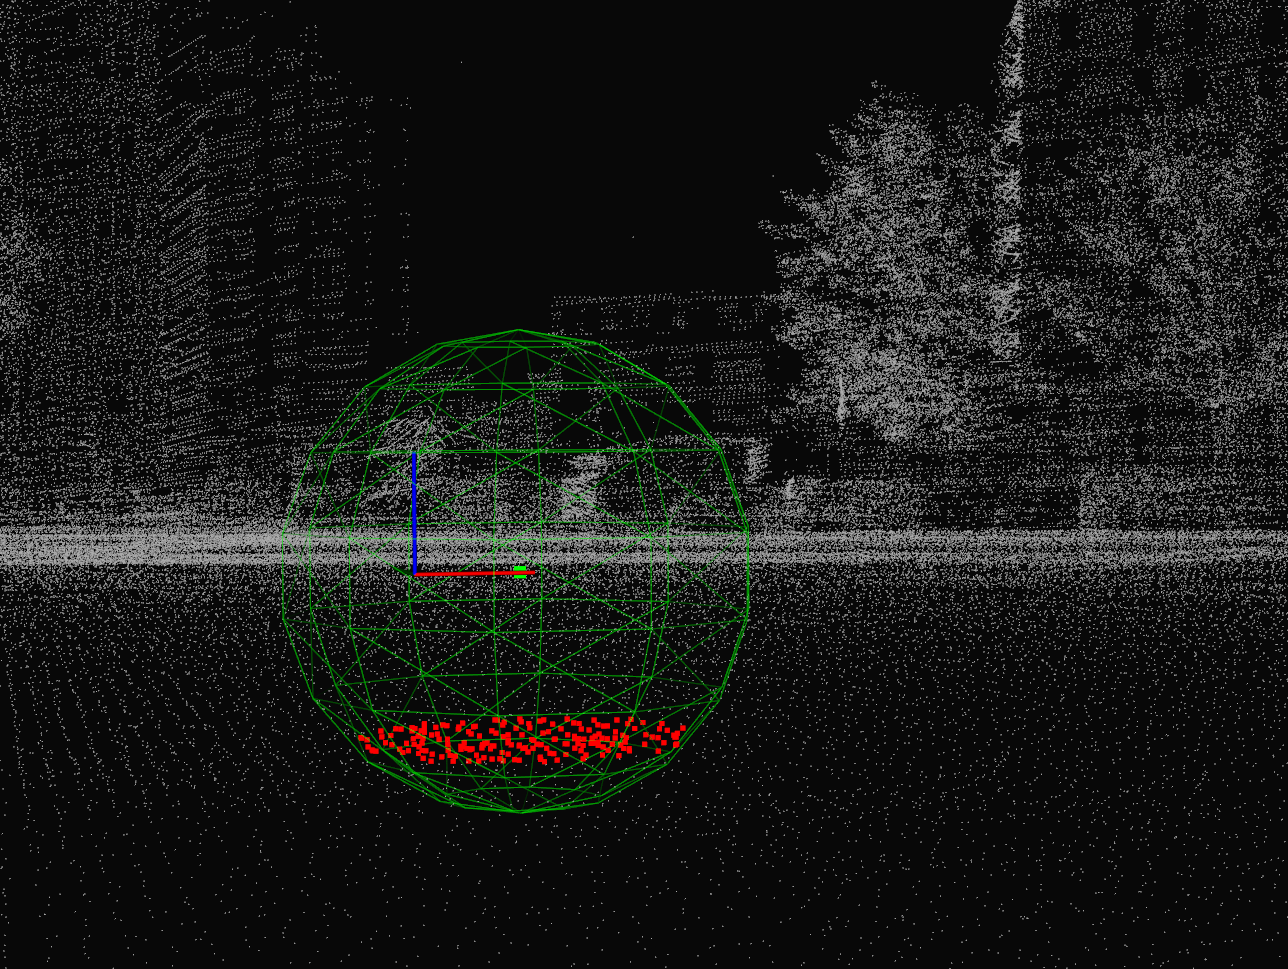
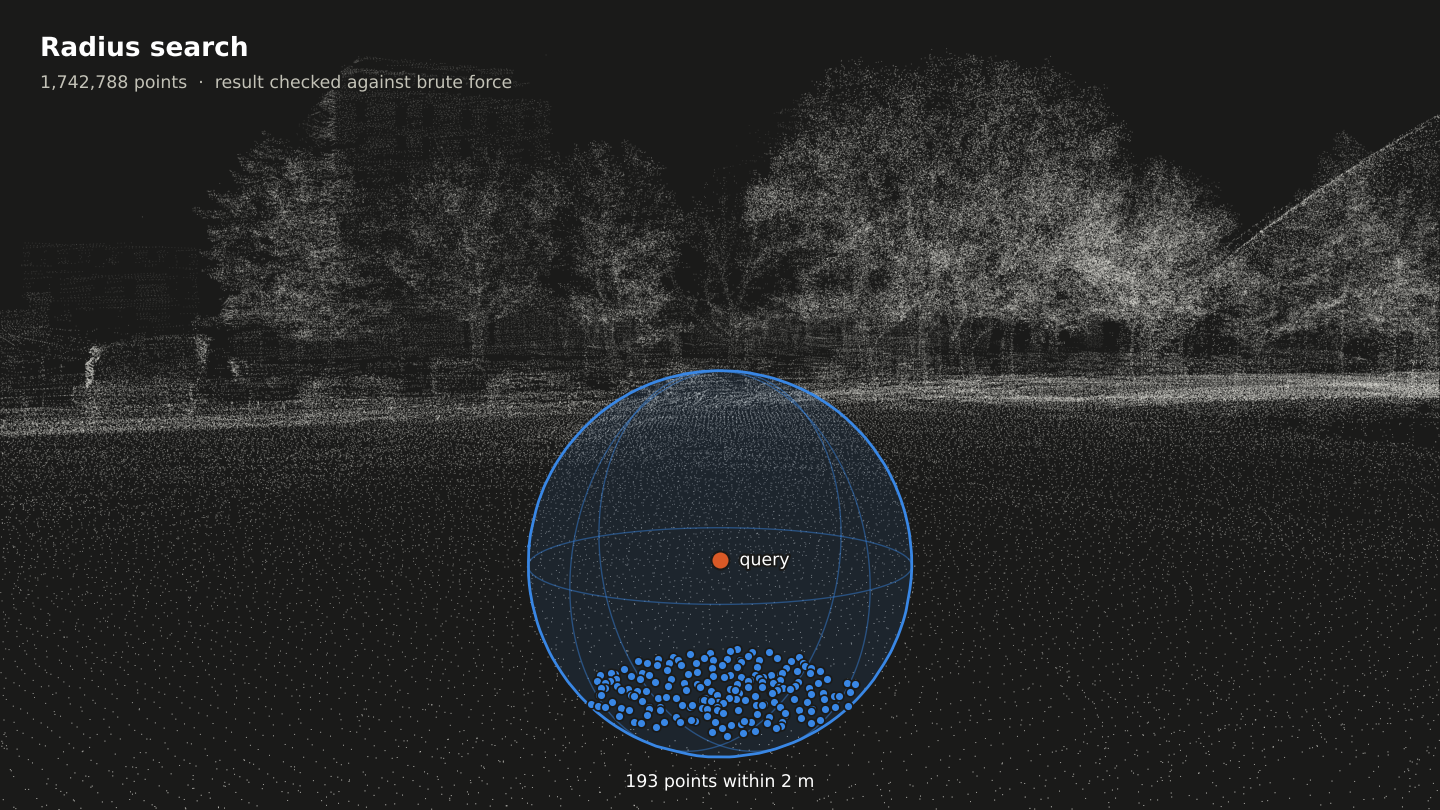
Render the README figures from scripts
The two search screenshots are replaced by renderings of the same demo
queries, and the benchmark tables get a summary chart in light and dark
versions. tools/render_search_figures.py runs the demos and refuses to draw
points they did not find; tools/plot_benchmark.py holds the README's numbers.

diff --git a/tools/render_search_figures.py b/tools/render_search_figures.py
@@ -1,0 +1,242 @@
+#!/usr/bin/env python3
+"""Renders the search figures in the README from a PCD map.
+
+Runs the two PCD demos with --no-vis, draws the points they report on a
+perspective view of the map, and stops if the points it is about to highlight
+are not the ones the demos found.
+
+  cmake -B build && cmake --build build
+  python3 tools/render_search_figures.py test/pcd/globalMap.pcd
+
+Needs numpy, scipy, matplotlib and a PCD file with binary x, y, z fields.
+"""
+import argparse
+import re
+import subprocess
+import sys
+
+import matplotlib
+
+matplotlib.use("Agg")
+import matplotlib.pyplot as plt
+import numpy as np
+from matplotlib import patheffects
+from scipy.spatial import ConvexHull
+
+SURFACE = np.array([0x1A, 0x1A, 0x19]) / 255.0
+CLOUD = np.array([0xEC, 0xEB, 0xE4]) / 255.0
+TEXT = "#ffffff"
+TEXT_SECONDARY = "#c3c2b7"
+RESULT = "#3987e5"  # the points a search returns
+QUERY = "#d95926"
+WIDTH, HEIGHT, FOV_DEG = 1440, 810, 60.0
+
+
+def load_pcd(path):
+    """Finite x, y, z of a binary PCD file as an (n, 3) float64 array."""
+    with open(path, "rb") as f:
+        header = {}
+        while True:
+            line = f.readline().decode("ascii", "replace").strip()
+            if line.startswith("#"):
+                continue
+            key, *values = line.split()
+            header[key] = values
+            if key == "DATA":
+                break
+        if values != ["binary"]:
+            sys.exit(f"{path}: DATA {values[0]} is not supported, only binary")
+        dtype = np.dtype({
+            "names": header["FIELDS"],
+            "formats": [f"<{t.lower()}{s}" for t, s in
+                        zip(header["TYPE"], header["SIZE"])],
+        })
+        count = int(header["POINTS"][0])
+        data = np.frombuffer(f.read(count * dtype.itemsize), dtype, count)
+    pts = np.stack([data["x"], data["y"], data["z"]], axis=1).astype(np.float64)
+    return pts[np.isfinite(pts).all(axis=1)]
+
+
+class Camera:
+    def __init__(self, eye, target):
+        self.eye = np.asarray(eye, float)
+        forward = np.asarray(target, float) - self.eye
+        forward /= np.linalg.norm(forward)
+        right = np.cross(forward, [0.0, 0.0, 1.0])
+        right /= np.linalg.norm(right)
+        self.rot = np.stack([right, np.cross(right, forward), forward])
+        self.focal = 0.5 * WIDTH / np.tan(np.radians(FOV_DEG) / 2)
+
+    def project(self, pts):
+        """Pixel x, y and depth; points behind the camera get depth <= 0."""
+        cam = (np.atleast_2d(pts) - self.eye) @ self.rot.T
+        depth = cam[:, 2]
+        safe = np.where(depth > 0.3, depth, np.nan)
+        x = WIDTH / 2 + self.focal * cam[:, 0] / safe
+        y = HEIGHT / 2 - self.focal * cam[:, 1] / safe
+        return x, y, np.where(depth > 0.3, depth, 0.0)
+
+
+def splat(cam, pts, far=140.0, exposure=1.3):
+    """Additive point splatting with distance fade, as an RGB image."""
+    x, y, depth = cam.project(pts)
+    keep = (depth > 0) & (depth < far) & (x >= 0) & (x < WIDTH - 1) & \
+           (y >= 0) & (y < HEIGHT - 1)
+    x, y, depth = x[keep], y[keep], depth[keep]
+    weight = np.clip(1.2 - depth / far, 0.15, 1.0) * np.clip(8.0 / depth, 0.3, 2.5)
+    xi, yi = x.astype(int), y.astype(int)
+    fx, fy = x - xi, y - yi
+    light = np.zeros((HEIGHT, WIDTH))
+    for dx, dy, w in ((0, 0, (1 - fx) * (1 - fy)), (1, 0, fx * (1 - fy)),
+                      (0, 1, (1 - fx) * fy), (1, 1, fx * fy)):
+        np.add.at(light, (yi + dy, xi + dx), weight * w)
+    tone = 1.0 - np.exp(-exposure * light)
+    return SURFACE + tone[..., None] * (CLOUD - SURFACE)
+
+
+def run_demo(binary, args):
+    result = subprocess.run([binary, *map(str, args), "--no-vis"],
+                            capture_output=True, text=True)
+    if result.returncode != 0 or "Brute-force check: MATCH" not in result.stdout:
+        sys.exit(f"{binary} failed:\n{result.stdout}{result.stderr}")
+    return result.stdout
+
+
+def field(output, name):
+    match = re.search(rf"^{re.escape(name)}: (.*)$", output, re.M)
+    if not match:
+        sys.exit(f"'{name}' not found in the demo output")
+    return match.group(1)
+
+
+def new_figure(image):
+    fig = plt.figure(figsize=(WIDTH / 100, HEIGHT / 100), dpi=100)
+    ax = fig.add_axes([0, 0, 1, 1])
+    ax.imshow(image, extent=(0, WIDTH, HEIGHT, 0), interpolation="nearest")
+    ax.set_xlim(0, WIDTH)
+    ax.set_ylim(HEIGHT, 0)
+    ax.axis("off")
+    return fig, ax
+
+
+HALO = [patheffects.withStroke(linewidth=3, foreground="#1a1a19")]
+
+
+def caption(ax, title, detail):
+    ax.text(40, 56, title, color=TEXT, fontsize=19, fontweight="bold",
+            path_effects=HALO)
+    ax.text(40, 88, detail, color=TEXT_SECONDARY, fontsize=12.5,
+            path_effects=HALO)
+
+
+def label(ax, xy, text, offset, align="left"):
+    ax.annotate(text, xy, xytext=offset, textcoords="offset points",
+                color=TEXT, fontsize=12.5, ha=align, va="center",
+                path_effects=HALO)
+
+
+def marker(ax, x, y, color, size):
+    # A ring in the surface color keeps a mark apart from what it overlaps
+    ax.scatter(x, y, s=size, color=color, edgecolors="#1a1a19", linewidths=1.5,
+               zorder=5)
+
+
+def view_direction(yaw_deg):
+    yaw = np.radians(yaw_deg)
+    return np.array([np.cos(yaw), np.sin(yaw), 0.0])
+
+
+def render_nearest(pts, query, demo_dir, map_path, yaw, out):
+    output = run_demo(f"{demo_dir}/nearest_search_pcd_demo", [map_path, *query])
+    reported = np.array(re.findall(r"-?\d+\.\d+", field(output, "Nearest")), float)
+    dists = np.linalg.norm(pts - query, axis=1)
+    nearest = pts[np.argmin(dists)]
+    if not np.allclose(nearest, reported, atol=1e-4):
+        sys.exit(f"nearest point differs from the demo's: {nearest} vs {reported}")
+
+    ahead = view_direction(yaw)
+    cam = Camera(query - 9.0 * ahead + [0, 0, 1.8],
+                 query + 6.0 * ahead + [0, 0, 0.2])
+    fig, ax = new_figure(splat(cam, pts))
+    (qx,), (qy,), _ = cam.project(query)
+    (nx,), (ny,), _ = cam.project(nearest)
+    ax.plot([qx, nx], [qy, ny], color=TEXT, linewidth=2, zorder=4,
+            path_effects=[patheffects.withStroke(linewidth=4, foreground="#1a1a19")])
+    marker(ax, qx, qy, QUERY, 170)
+    marker(ax, nx, ny, RESULT, 170)
+    label(ax, (qx, qy), "query", (14, 0))
+    label(ax, (nx, ny), "nearest neighbor", (14, 0))
+    label(ax, ((qx + nx) / 2, (qy + ny) / 2), f"{dists.min():.2f} m", (-12, 0),
+          align="right")
+    caption(ax, "Nearest neighbor search",
+            f"{len(pts):,} points  ·  result checked against brute force")
+    fig.savefig(out, dpi=100, facecolor=SURFACE)
+    plt.close(fig)
+    print(f"{out}: nearest {nearest.round(3)} at {dists.min():.3f} m")
+
+
+def render_radius(pts, query, radius, demo_dir, map_path, yaw, out):
+    output = run_demo(f"{demo_dir}/radius_search_pcd_demo",
+                      [map_path, *query, radius])
+    reported = int(field(output, "Radius search points"))
+    found = pts[np.linalg.norm(pts - query, axis=1) <= radius]
+    if len(found) != reported:
+        sys.exit(f"{len(found)} points in the radius, the demo found {reported}")
+
+    ahead = view_direction(yaw)
+    cam = Camera(query - 13.0 * ahead + [0, 0, 2.6],
+                 query + 6.0 * ahead + [0, 0, 1.2])
+    fig, ax = new_figure(splat(cam, pts))
+
+    # The sphere: its outline, and three great circles for depth
+    rng = np.random.default_rng(0)
+    on_sphere = rng.normal(size=(4000, 3))
+    on_sphere = query + radius * on_sphere / np.linalg.norm(on_sphere, axis=1)[:, None]
+    sx, sy, _ = cam.project(on_sphere)
+    hull = ConvexHull(np.stack([sx, sy], axis=1)).vertices
+    ax.fill(sx[hull], sy[hull], facecolor=RESULT, alpha=0.10, zorder=2)
+    ax.plot(np.append(sx[hull], sx[hull[0]]), np.append(sy[hull], sy[hull[0]]),
+            color=RESULT, linewidth=2, zorder=3)
+    angle = np.linspace(0, 2 * np.pi, 200)
+    cos, sin, zero = np.cos(angle), np.sin(angle), np.zeros_like(angle)
+    for circle in ((cos, sin, zero), (cos, zero, sin), (zero, cos, sin)):
+        cx, cy, _ = cam.project(query + radius * np.stack(circle, axis=1))
+        ax.plot(cx, cy, color=RESULT, linewidth=1, alpha=0.45, zorder=3)
+
+    fx, fy, depth = cam.project(found)
+    order = np.argsort(-depth)
+    ax.scatter(fx[order], fy[order], s=40, color=RESULT, edgecolors="#1a1a19",
+               linewidths=1.2, zorder=4)
+    (qx,), (qy,), _ = cam.project(query)
+    marker(ax, qx, qy, QUERY, 170)
+    label(ax, (qx, qy), "query", (14, 0))
+    label(ax, (qx, sy[hull].max()), f"{len(found)} points within {radius:g} m",
+          (0, -18), align="center")
+    caption(ax, "Radius search",
+            f"{len(pts):,} points  ·  result checked against brute force")
+    fig.savefig(out, dpi=100, facecolor=SURFACE)
+    plt.close(fig)
+    print(f"{out}: {len(found)} points within {radius:g} m")
+
+
+def main():
+    parser = argparse.ArgumentParser(description=__doc__.splitlines()[0])
+    parser.add_argument("map", help="PCD file, e.g. test/pcd/globalMap.pcd")
+    parser.add_argument("--query", type=float, nargs=3, default=[0.9, 0.1, 0.0])
+    parser.add_argument("--radius", type=float, default=2.0)
+    parser.add_argument("--yaw", type=float, default=45.0,
+                        help="viewing direction in the xy plane, degrees")
+    parser.add_argument("--demo-dir", default="build")
+    parser.add_argument("--out-dir", default="imgs")
+    args = parser.parse_args()
+
+    pts = load_pcd(args.map)
+    query = np.array(args.query)
+    render_nearest(pts, query, args.demo_dir, args.map, args.yaw,
+                   f"{args.out_dir}/nearest_search_pcd_result.png")
+    render_radius(pts, query, args.radius, args.demo_dir, args.map, args.yaw,
+                  f"{args.out_dir}/radius_search_pcd_result.png")
+
+
+if __name__ == "__main__":
+    main()

diff --git a/tools/plot_benchmark.py b/tools/plot_benchmark.py
@@ -1,0 +1,76 @@
+#!/usr/bin/env python3
+"""Draws the benchmark summary chart in the README (light and dark versions).
+
+The numbers are the README's table for Global_map_sprase.pcd: medians of 10
+benchmark runs. Update ROWS when that table changes.
+
+  python3 tools/plot_benchmark.py
+"""
+import matplotlib
+
+matplotlib.use("Agg")
+import matplotlib.pyplot as plt
+
+# (label, likd-tree, ikd-tree, unit, ikd-tree / likd-tree as the README gives
+# it, computed there from unrounded values)
+ROWS = [
+    ("Batch build", 36, 365, "ms", 10.1),
+    ("Insert, total", 353, 1352, "ms", 3.8),
+    ("Insert, slowest 1% of frames", 1.1, 21.4, "ms", 19.1),
+    ("1-NN queries", 360, 2446, "ms", 6.8),
+    ("5-NN queries", 771, 4291, "ms", 5.6),
+    ("5-NN queries, TBB", 153, 834, "ms", 5.5),
+    ("Box deletion (local map)", 1.04, 28.6, "ms", 27.5),
+    ("Memory after streaming", 25.5, 186, "B/point", 7.3),
+]
+
+THEMES = {
+    "light": dict(surface="#fcfcfb", text="#0b0b0b", secondary="#52514e",
+                  grid="#e3e2dd", bar="#2a78d6"),
+    "dark": dict(surface="#1a1a19", text="#ffffff", secondary="#c3c2b7",
+                 grid="#3a3a37", bar="#3987e5"),
+}
+
+
+def draw(theme, out):
+    c = THEMES[theme]
+    ratios = [row[4] for row in ROWS]
+    fig, ax = plt.subplots(figsize=(10, 5.2), dpi=144)
+    fig.patch.set_facecolor(c["surface"])
+    ax.set_facecolor(c["surface"])
+    ys = range(len(ROWS))
+    ax.barh(ys, ratios, height=0.5, color=c["bar"], zorder=3)
+    for y, (label, likd, ikd, unit, ratio) in zip(ys, ROWS):
+        ax.annotate(f"{ratio:.1f}×", (ratio, y), xytext=(8, 0),
+                    textcoords="offset points", va="center", color=c["text"],
+                    fontsize=11, fontweight="bold")
+        ax.annotate(f"{likd:g} vs {ikd:g} {unit}", (ratio, y), xytext=(58, 0),
+                    textcoords="offset points", va="center",
+                    color=c["secondary"], fontsize=9.5)
+    ax.set_yticks(list(ys))
+    ax.set_yticklabels([row[0] for row in ROWS], color=c["text"], fontsize=11)
+    ax.invert_yaxis()
+    ax.set_xlim(0, 36)
+    ax.set_xticks([1, 5, 10, 15, 20, 25, 30])
+    ax.set_xticklabels(["1×", "5×", "10×", "15×", "20×", "25×", "30×"],
+                       color=c["secondary"], fontsize=10)
+    ax.xaxis.grid(True, color=c["grid"], linewidth=0.8, zorder=0)
+    ax.axvline(1, color=c["secondary"], linewidth=1, zorder=2)
+    ax.tick_params(length=0)
+    for spine in ax.spines.values():
+        spine.set_visible(False)
+    fig.text(0.03, 0.94, "How many times faster and smaller than ikd-tree",
+             color=c["text"], fontsize=14, fontweight="bold")
+    fig.text(0.03, 0.885,
+             "ikd-tree ÷ likd-tree, time or memory (likd-tree vs ikd-tree beside each "
+             "bar). 1.29M-point LiDAR map, 2000-point frames.",
+             color=c["secondary"], fontsize=10)
+    fig.subplots_adjust(left=0.27, right=0.97, top=0.83, bottom=0.08)
+    fig.savefig(out, facecolor=c["surface"])
+    plt.close(fig)
+    print(out)
+
+
+if __name__ == "__main__":
+    for theme in THEMES:
+        draw(theme, f"imgs/benchmark_{theme}.png")
